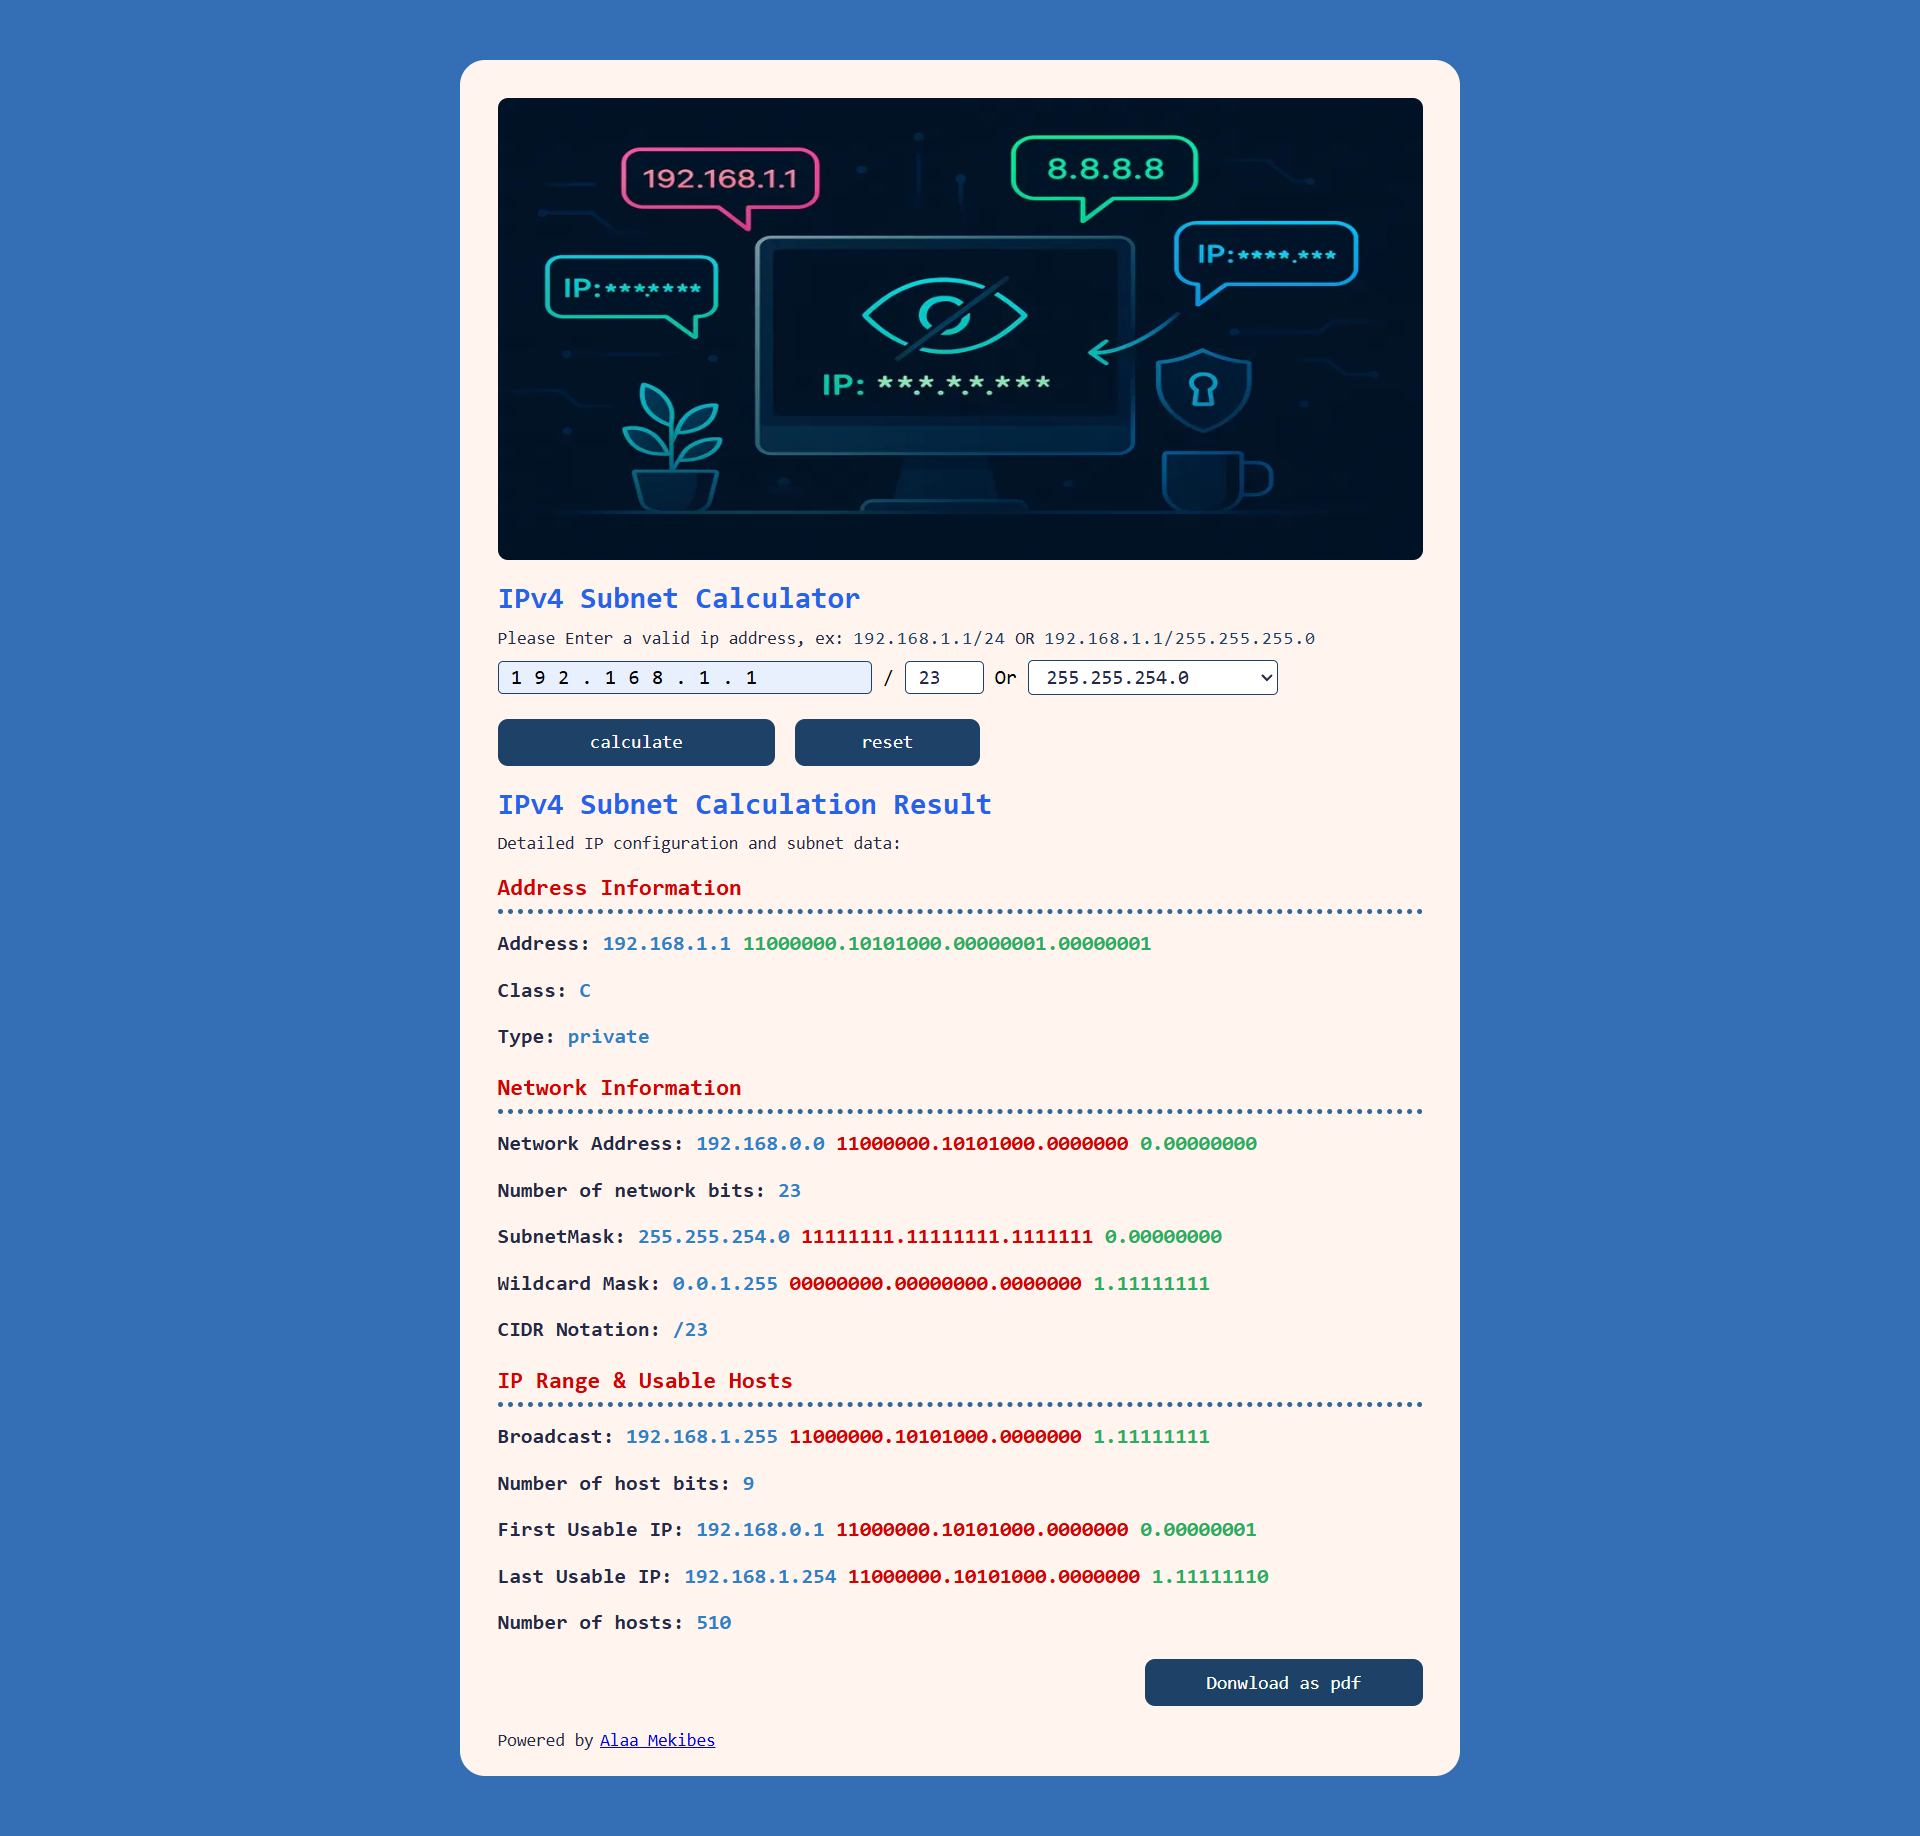
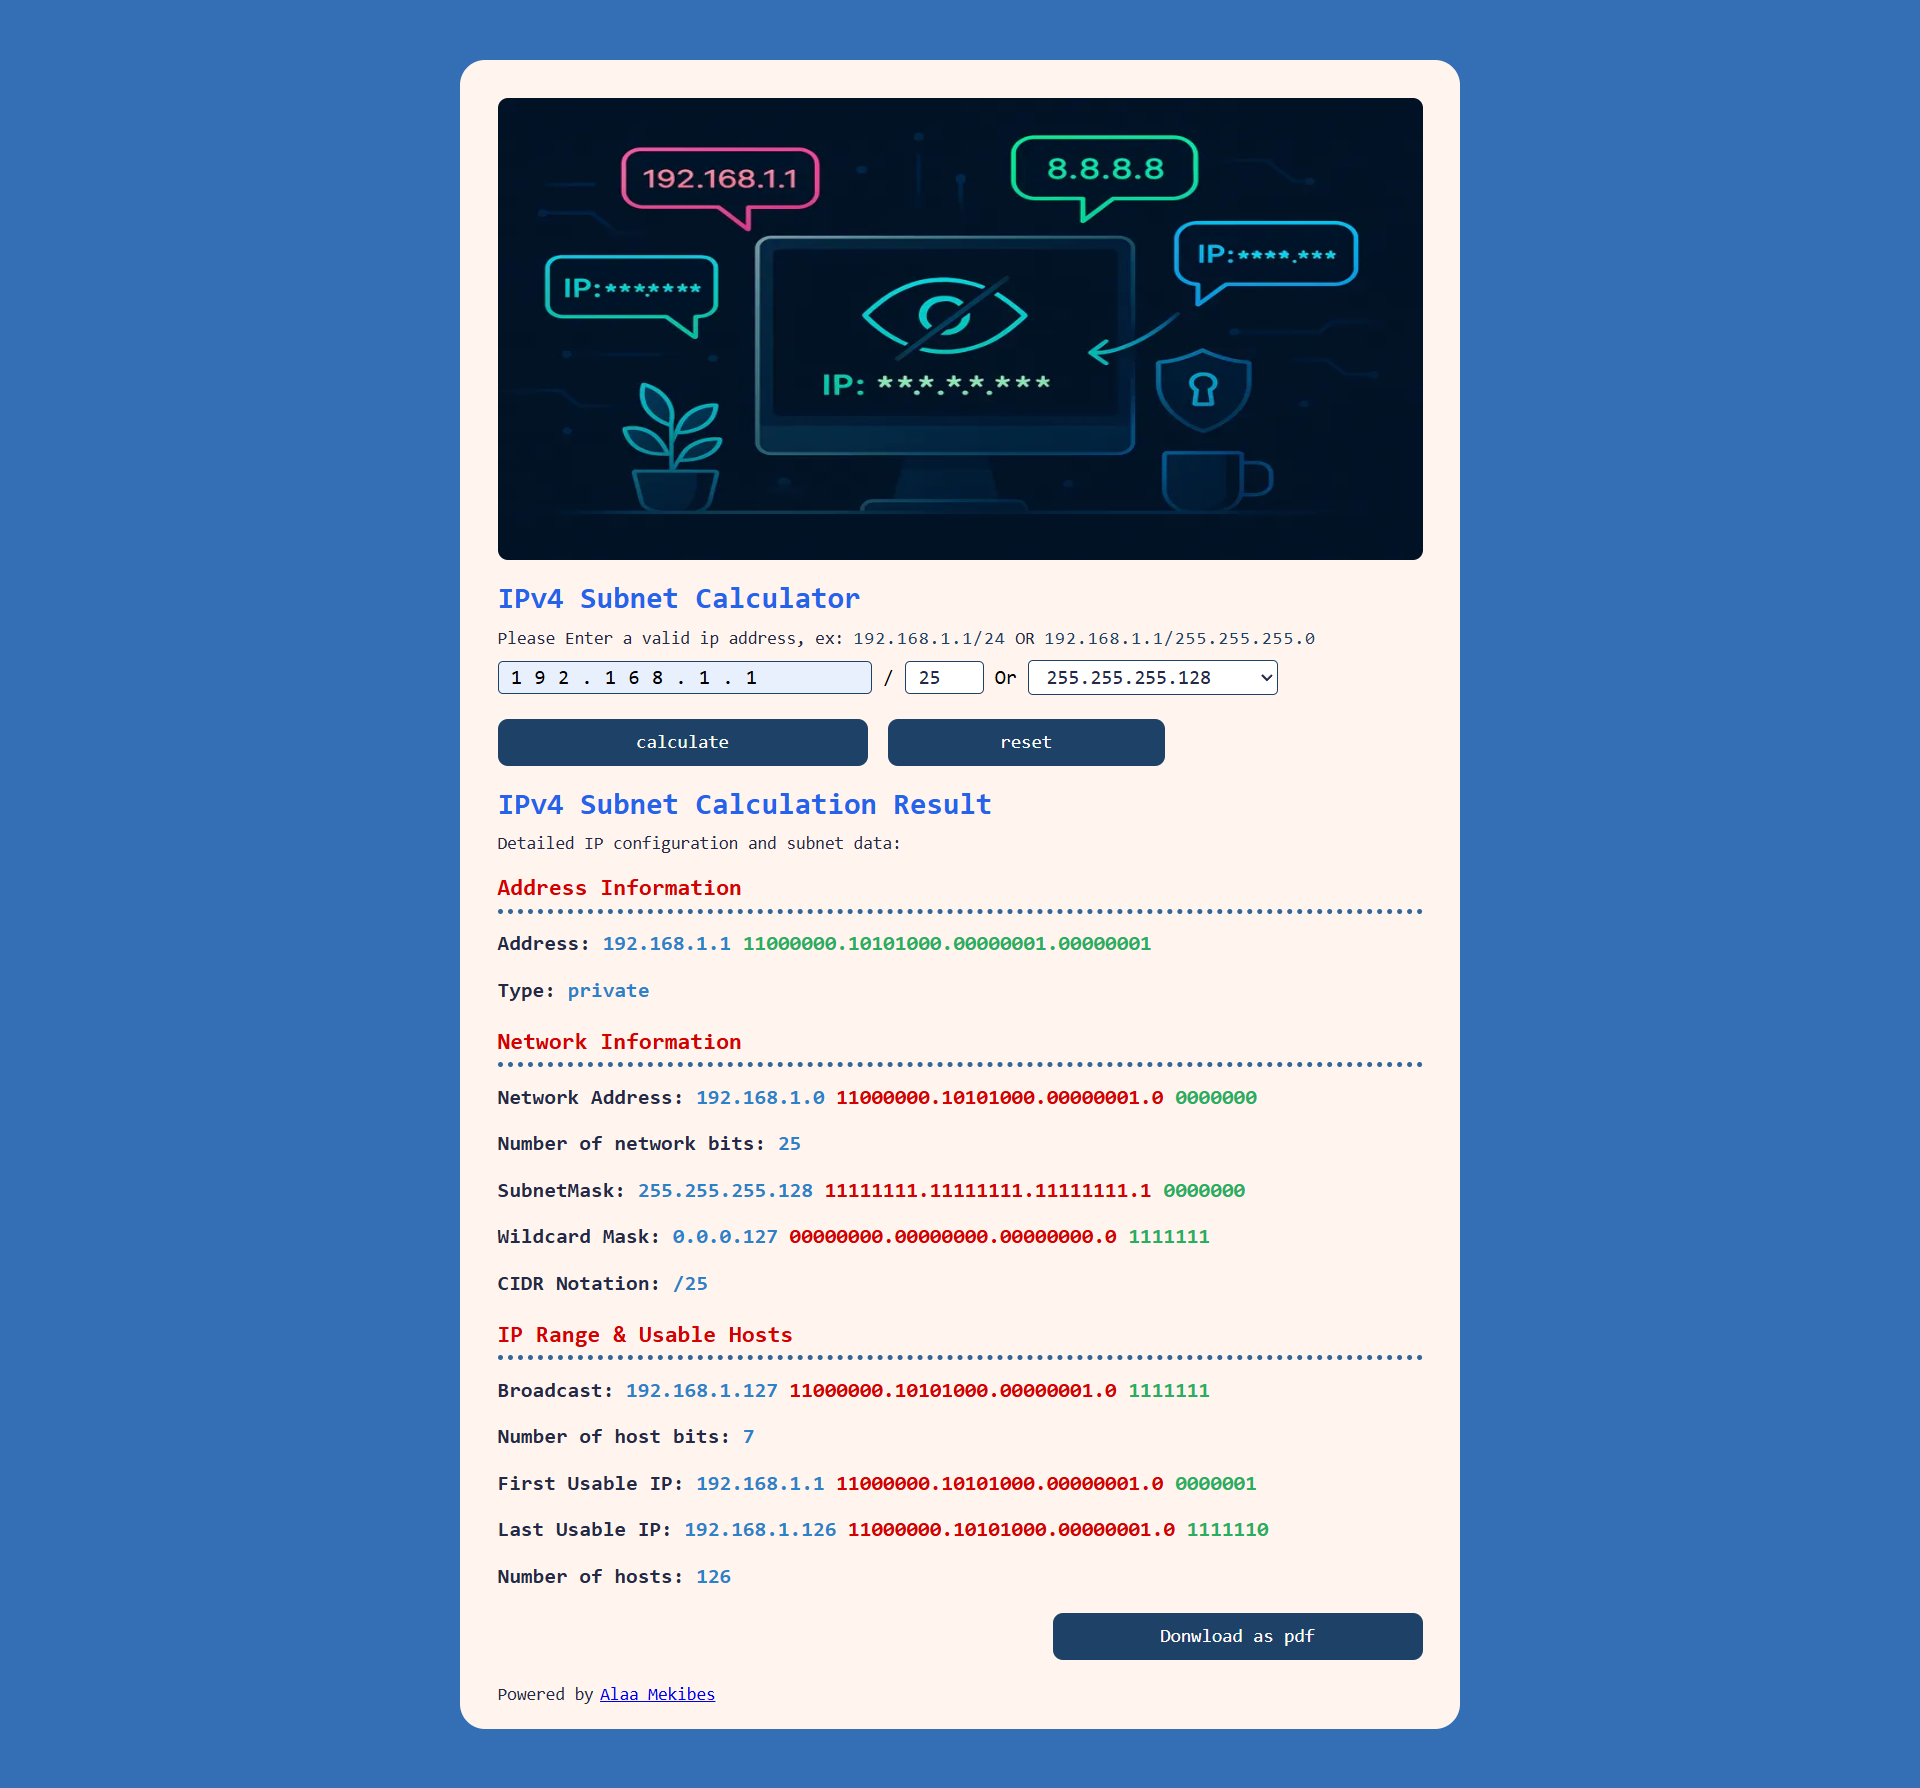
delete class section + adding to readme

Changed region(s): [[0.25, 0.0615, 0.75, 0.8921], [0.5312, 0.8921, 0.7188, 0.9536], [0.3125, 0.9228, 0.375, 0.9536]]

diff --git a/assets/js/main.js b/assets/js/main.js
@@ -3,7 +3,6 @@ class IpAddress {
         this.ip = ip;
         this.pre = pre;
         this.type = "public";
-        this.class;
         this.cases = [];
         this.casesBinary = [[], [], [], []];
         this.casesDecimal = [];
@@ -28,18 +27,6 @@ class IpAddress {
             let arr = [];
            this.casesDecimal[i] = parseInt(this.ipToDecimal(this.casesBinary[i], arr));
         }        
-    }
-
-    whichClass() {
-    const firstIpByte = this.casesDecimal[0];
-        switch (true) {
-            case firstIpByte >= 0 && firstIpByte <= 127 : this.class = "A"; break; 
-            case firstIpByte >= 128 && firstIpByte <= 191 : this.class = "B"; break; 
-            case firstIpByte >= 192 && firstIpByte <= 223 : this.class = "C"; break; 
-            case firstIpByte >= 224 && firstIpByte <= 239 : this.class = "D (Multicast)"; break; 
-            case firstIpByte >= 240 && firstIpByte <= 255 : this.class = "E (Reserved)"; break; 
-            default: this.class = "Invalid IP";
-        }
     }
 
     whichType() {
@@ -95,7 +82,6 @@ class IpAddress {
         article.innerHTML = `
         <h3>Address Information</h3>
         <p><strong>Address: </strong> <span class="decimalORstringText">${this.ip}</span> <span class="binaryText">${binary}</span></p>
-        <p><strong>Class: </strong> <span class="decimalORstringText">${this.class}</span></p>
         <p><strong>Type: </strong> <span class="decimalORstringText">${this.type}</span></p>
         `;
         document.querySelector("#result").appendChild(article);
@@ -545,20 +531,14 @@ function inputVerification() {
     if(!parseInt(prefix.value) && parseInt(subnetMask.value)) prefix.value = parseInt(subnetMask.value);
 
 
-// Validation success => Initialisation + Objects
-    warning.textContent = "";
-    document.querySelectorAll(".result_container article").forEach(article => {
-        article.remove();
-    });
-    if(document.querySelector(".result_container #download")) document.querySelector(".result_container #download").remove();
-    document.querySelector(".result_container").style.display = "block";
-    console.clear();
+// Validation success => init + Create Objects
+
+init(1);
 
 const ip = new IpAddress(ipAdd.value.trim(), parseInt(prefix.value.trim()));
 ip.ipCasesSeperator();
 ip.ipCasesInBinary();
 ip.ipCasesInDecimal();
-ip.whichClass();
 ip.whichType();
 ip.showIpAddress();
 
@@ -587,10 +567,10 @@ b.machineInBinary();
 b.ipCasesInDecimal();
 b.showIpAddress();
 
-const FLM = new FirstLastMachine(ipAdd.value.trim(), parseInt(prefix.value.trim()));
-FLM.machineInBinary();
-FLM.ipCasesInDecimal();
-FLM.showIpAddress();
+const flm = new FirstLastMachine(ipAdd.value.trim(), parseInt(prefix.value.trim()));
+flm.machineInBinary();
+flm.ipCasesInDecimal();
+flm.showIpAddress();
 
 // Smooth Scroll
 document.querySelector(".result_container").scrollIntoView({behavior: "smooth", block: "start"});
@@ -606,7 +586,20 @@ function resetInputes() {
     document.querySelector("#ipadd").value = "";
     document.querySelector("#prefix").value = "";
     document.querySelector("#subnetMask").value = "";
+
+    init(0);
 }
+
+function init(result) {
+    document.querySelector(".error").textContent = "";
+    document.querySelectorAll(".result_container article").forEach(article => {
+        article.remove();
+    });
+    if(document.querySelector(".result_container #download")) document.querySelector(".result_container #download").remove();
+    if(result === 0) document.querySelector(".result_container").style.display = "none";
+    else document.querySelector(".result_container").style.display = "block";
+    console.clear();
+} 
 
 document.addEventListener("DOMContentLoaded", _ => {
     document.querySelector("#calculate").addEventListener("click", inputVerification);

diff --git a/assets/css/style.css b/assets/css/style.css
@@ -109,7 +109,7 @@ body {
     display: flex;
     justify-content: center;
     align-items: center;
-    min-height: 100vh;
+    min-height: 100svh;
     background-color: var(--mainBgColor);
 }
 

diff --git a/readme.md b/readme.md
@@ -27,13 +27,48 @@ This class hierarchy allows for clean code organization and easy maintenance. Th
 The calculator performs the following operations:
 
 1. **IP Address Parsing:** Splits the input IP in CIDR format (e.g., `198.51.100.7/18`) into its decimal octets and prefix.
-2. **Class Determination:** Identifies the IP class (A, B, C, D, E) based on the first octet.
-3. **Network and Host Parts:** Converts the IP address to binary. The first *n* bits (according to the prefix) are considered the network part. The remaining bits form the host part.
-4. **Subnet Mask:** Built by setting the first *n* bits to `1` (network bits), and the rest to `0` (host bits). For example, `/18` gives `255.255.192.0`.
-5. **Wildcard Mask:** Calculated as the **reverse** of the subnet mask — each octet is subtracted from `255`. For example, `255.255.192.0` becomes `0.0.63.255`.
-6. **Network Address:** Constructed by **keeping the network part** of the IP and **setting all host bits to `0`**.
-7. **Broadcast Address:** Built by **keeping the network part** and **setting all host bits to `1`**.
-8. **Host Count:** Calculated as `2^(number of host bits) - 2`.
+2. **Network and Host Parts:** Converts the IP address to binary. The first *n* bits "in RED" (according to the prefix) are considered the network part. The remaining bits form the host part "in GREEN".
+3. **Subnet Mask:** Built by setting the first *n* bits to `1` (network bits), and the rest to `0` (host bits). For example, `/18` gives `255.255.192.0`.
+4. **Wildcard Mask:** Calculated as the **reverse** of the subnet mask — each octet is subtracted from `255`. For example, `255.255.192.0` becomes `0.0.63.255`.
+5. **Network Address:** Constructed by **keeping the network part** of the IP and **setting all host bits to `0`**.
+6. **Broadcast Address:** Built by **keeping the network part** and **setting all host bits to `1`**.
+7. **Host Count:** Calculated as `2^(number of host bits) - 2`.
+
+## IP Address Type Classification  
+
+This tool automatically detects the type of an IPv4 address (private, public, loopback, etc.) based on its numerical value. The classification follows standard networking rules and helps identify special-use addresses.  
+
+#### How It Works  
+The `whichType()` method checks the IP address against known ranges in a specific order:  
+
+1. **Private IPs** (used in local networks):  
+   - `10.x.x.x` (e.g., 10.0.0.1)  
+   - `172.16.x.x` to `172.31.x.x` (e.g., 172.16.1.5)  
+   - `192.168.x.x` (e.g., 192.168.1.1)  
+
+2. **Loopback** (used for local testing, always points back to your own machine):  
+   - `127.x.x.x` (e.g., 127.0.0.1)  
+
+3. **Link-local** (used when a device can’t get an IP automatically):  
+   - `169.254.x.x` (e.g., 169.254.1.10)  
+
+4. **Multicast** (used for group communication, like video streaming):  
+   - `224.x.x.x` to `239.x.x.x` (e.g., 224.0.0.251)  
+
+5. **Broadcast** (special address to send data to all devices in a network):  
+   - `255.255.255.255`  
+
+6. **Reserved** (addresses set aside for special purposes or future use):  
+   - `0.x.x.x` (e.g., 0.0.0.0 – often means "any address")  
+   - `100.64.x.x` to `100.127.x.x` (used for carrier-grade NAT)  
+   - `192.0.0.x`, `192.0.2.x`, `192.88.99.x` (documentation/testing)  
+   - `198.18.x.x` to `198.19.x.x` (benchmark testing)  
+   - `198.51.100.x` (example/test address)  
+   - `203.0.113.x` (another test range)  
+   - Anything from `240.x.x.x` and above (reserved for future use)  
+
+7. **Public IPs** (normal internet addresses):  
+   - If none of the above rules match, the IP is considered public (e.g., 8.8.8.8, 142.250.190.46).
 
 ## 📥 PDF Export Feature
 
@@ -49,6 +84,6 @@ Users can download the calculation results as PDF:
 
 ## 💡 Developer
 
-**Alaa MEKIBES**  
+**[Alaa MEKIBES](https://github.com/alaa-mekibes)**
 
-Feel free to contribute to this project or report issues through GitHub!
+*Feel free to contribute to this project or report issues through GitHub!*
